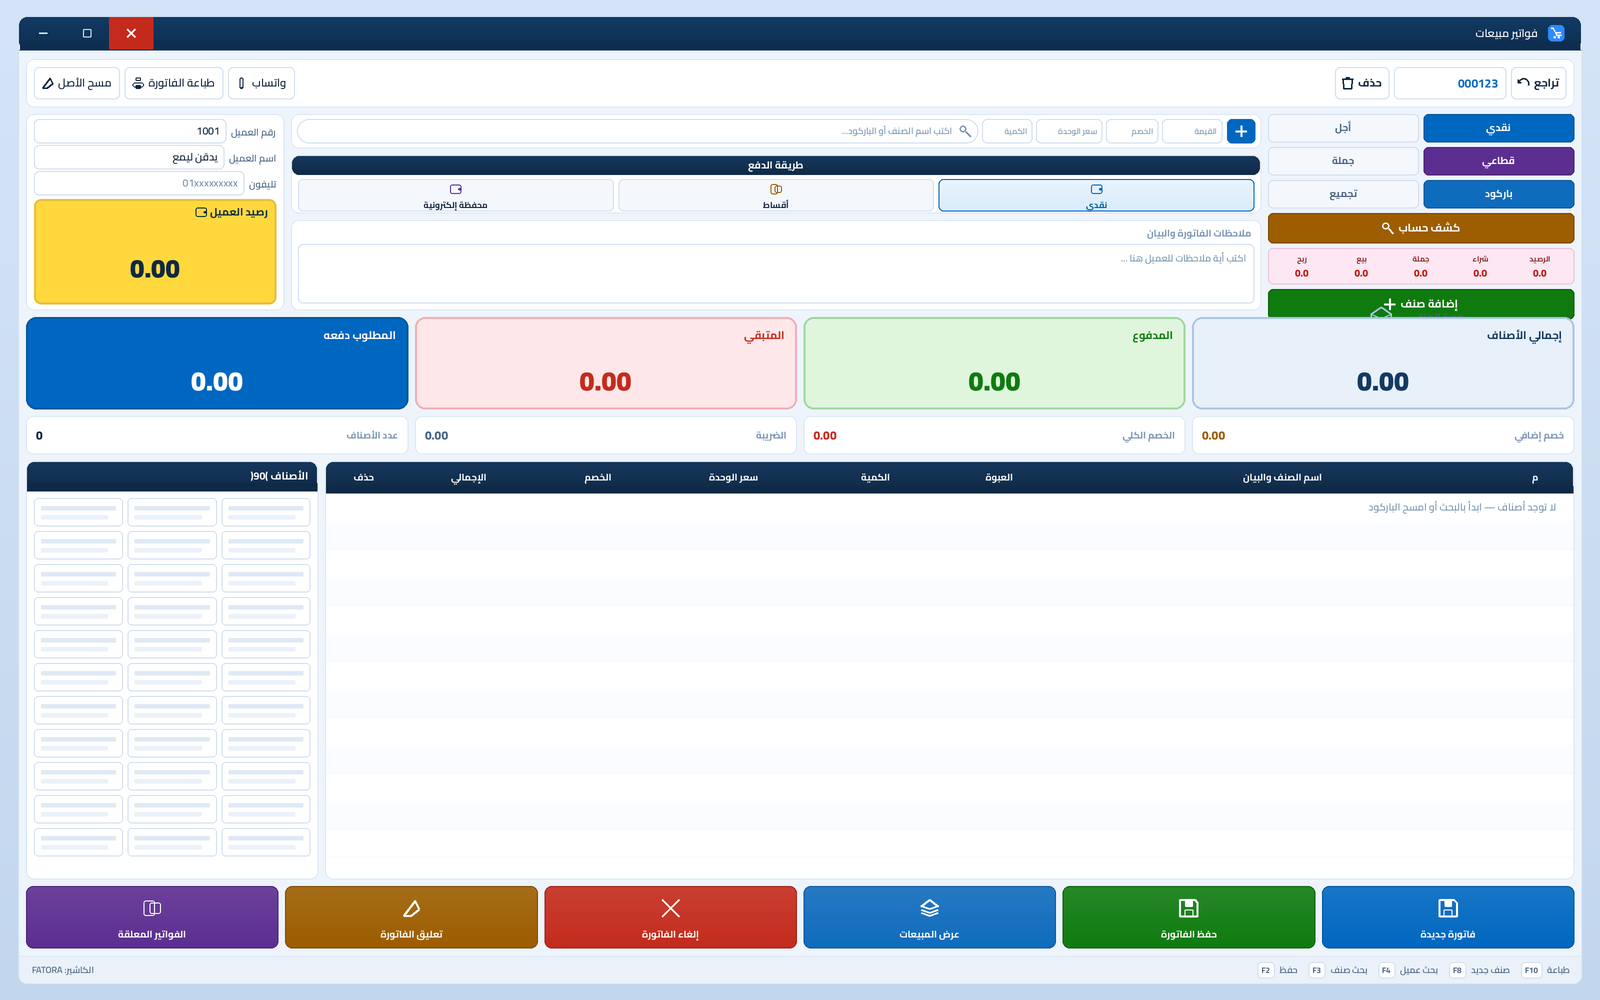
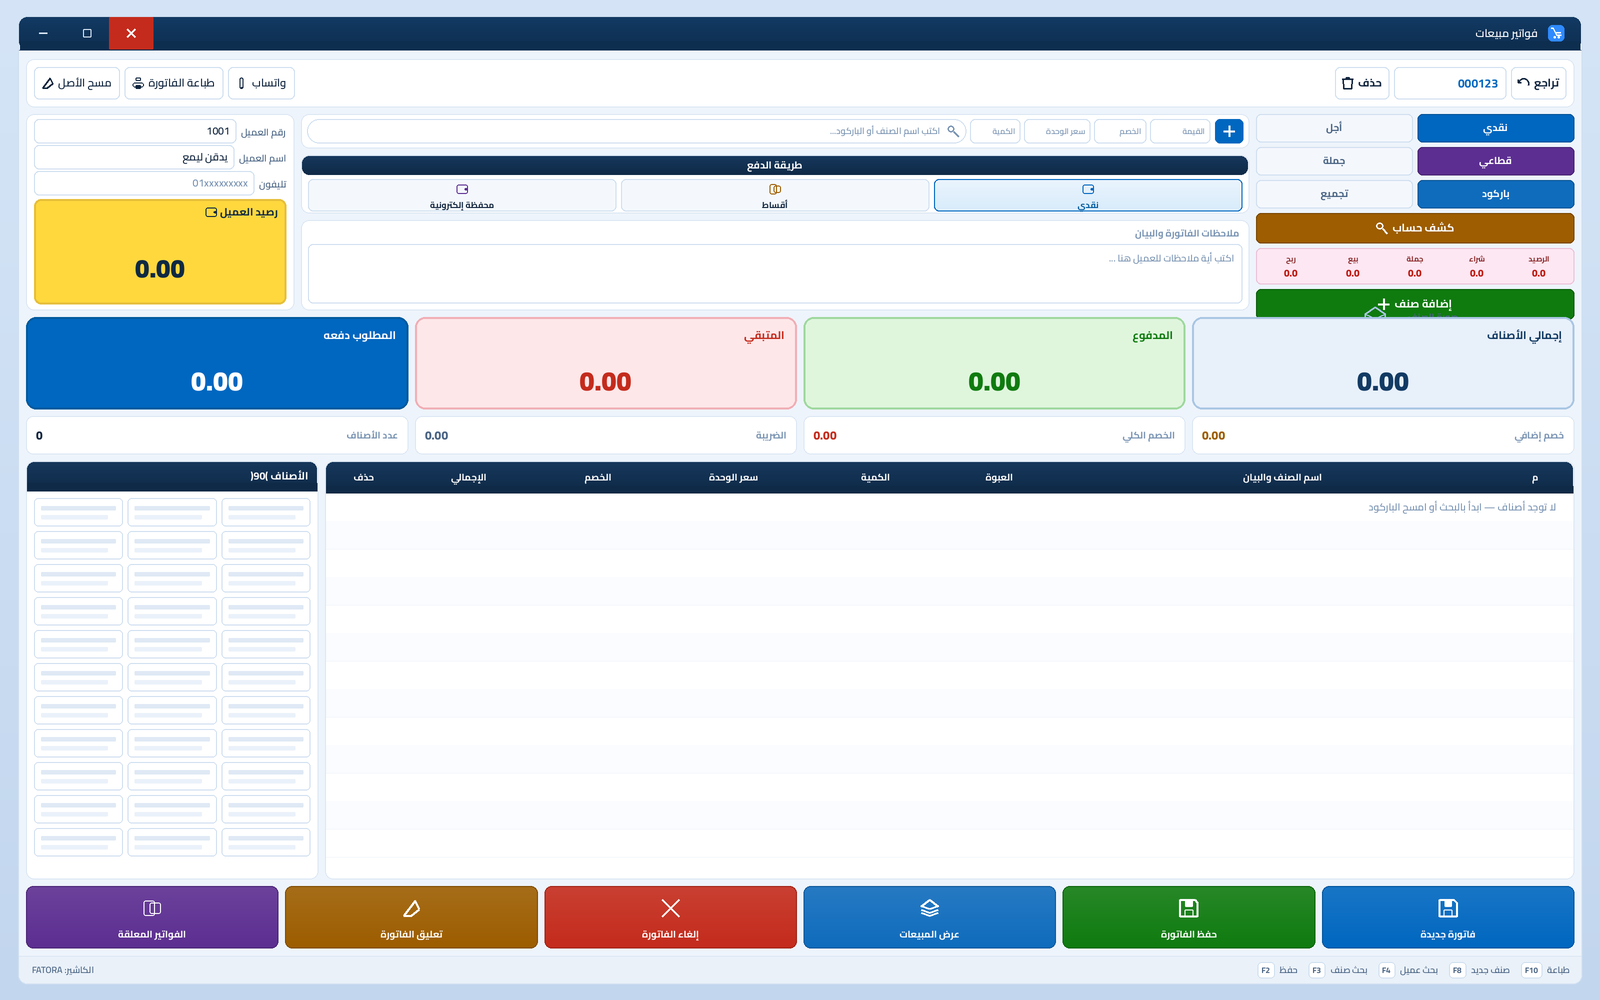
feat(invoice): إلغاء كل العروض المرنة في شاشة المبيعات — عروض ثابتة
كل صف يمتد بالظبط 1364px (1380 نافذة - 16 padding):

- الصف العلوي: العميل 268 + الوسط 762 + اليمين 318 (+16 فواصل) = 1364
- حقل البحث: 353px ثابت (بدل flex-1)
- طرق الدفع: 3 × 250px ثابت
- الملاحظات: 762px
- صورة الصنف: 58px ارتفاع ثابت (كانت تتمدد)
- شريط المال: 4 × 335px (+24) = 1364
- الشريط الثانوي: 4 × 335px = 1364
- الجدول: 1064px + الأصناف 292px (+8) = 1364
- الأزرار الستة: grid-cols-6 (توزيع متساوي تلقائي)

الـflex-1 المتبقي (10 مواضع) كله داخل خانات ثابتة:
حقول داخل صناديقها، textarea الملاحظات، صفوف الجدول، TotRow.

التحقق: tsc نظيف، next build ناجح (42/42)، كل مجموع = 1364px

diff --git a/src/components/invoice/InvoiceEditor.tsx b/src/components/invoice/InvoiceEditor.tsx
@@ -1290,7 +1290,7 @@ export function InvoiceEditor({
               </div>
           </div>
           </div>
-          <div className="flex min-w-0 flex-1 flex-col gap-2">
+          <div className="flex w-[762px] min-w-[762px] shrink-0 flex-col gap-2">
         <div className={`flex h-[50px] shrink-0 items-end gap-1.5 ${L.quickAdd ? "" : "hidden"}`}>
           <div className="flex h-[38px] items-center gap-1.5">
             {/* القائمة المنسدلة الاحترافية للمجموعات */}
@@ -1342,8 +1342,8 @@ export function InvoiceEditor({
             </div>
           </div>
 
-          <div className="flex min-w-0 flex-1 items-end gap-1">
-            <div className="etab relative min-w-[230px] flex-1">
+          <div className="flex w-[762px] shrink-0 items-end gap-1">
+            <div className="etab relative w-[353px] shrink-0">
               <span>الصنف</span>
               <input
                 ref={productRef}
@@ -1444,14 +1444,14 @@ export function InvoiceEditor({
           {/* طرق الدفع (نقدي وأقساط ومحفظة إلكترونية فقط) */}
           <div className={`panel flex w-full shrink-0 flex-col overflow-hidden shadow-sm ${L.payment ? "" : "hidden"}`}>
             <div className="navy-head flex h-[26px] shrink-0 items-center justify-center text-[12.5px]">طريقة الدفع</div>
-            <div className="flex flex-1 flex-row items-stretch gap-1.5 p-1.5 bg-white/50">
+            <div className="flex flex-row items-stretch gap-1.5 p-1.5 bg-white/50">
               {ALLOWED_PAYMENT_METHODS.map((m) => {
                 const active = state.paymentMethod === m.key;
                 return (
                   <button
                     key={m.key}
                     type="button"
-                    className={`pay-btn flex-1 h-[34px] flex-col gap-0 ${active ? "active !border-green-600 !bg-amber-50" : ""}`}
+                    className={`pay-btn h-[34px] w-[250px] shrink-0 flex-col gap-0 ${active ? "active !border-green-600 !bg-amber-50" : ""}`}
                     onClick={() => selectMethod(m.key)}
                   >
                     <span className="text-[11px] font-black leading-none">{m.label}</span>
@@ -1465,7 +1465,7 @@ export function InvoiceEditor({
             </div>
           </div>
           {/* الملاحظات مع نصوص الحسابات بدون (ج.م) والمتبقي (آجل) بدون على العميل */}
-          <div className={`panel flex min-w-0 flex-1 flex-col overflow-hidden shadow-sm ${L.notes ? "" : "hidden"}`}>
+          <div className={`panel flex w-[762px] shrink-0 flex-col overflow-hidden shadow-sm ${L.notes ? "" : "hidden"}`}>
             <div className="panel-head flex h-[32px] shrink-0 items-center justify-center gap-1.5 text-[14px]">
               <PencilLine className="h-3.5 w-3.5 text-blue-600" />
               ملاحظات الفاتورة والبيان
@@ -1617,7 +1617,7 @@ export function InvoiceEditor({
             </button>
 
             {/* صورة الصنف */}
-            <div className={`panel flex min-h-0 flex-1 items-center justify-center gap-1 overflow-hidden bg-white p-1.5 text-center shadow-sm ${L.itemImage ? "" : "hidden"}`}>
+            <div className={`panel flex h-[58px] shrink-0 items-center justify-center gap-1 overflow-hidden bg-white p-1.5 text-center shadow-sm ${L.itemImage ? "" : "hidden"}`}>
               {selProduct?.imageUrl ? (
                 // eslint-disable-next-line @next/next/no-img-element
                 <img src={selProduct.imageUrl} alt={selProduct.name} className="max-h-[52px] max-w-full object-contain" />
@@ -1643,7 +1643,7 @@ export function InvoiceEditor({
             return (
               <div
                 key={key}
-                className="flex min-w-0 flex-1 flex-col justify-between overflow-hidden rounded-xl px-3 py-2 shadow-sm"
+                className="flex w-[335px] shrink-0 flex-col justify-between overflow-hidden rounded-xl px-3 py-2 shadow-sm"
                 style={{ background: c.bg, border: `2px solid ${c.border}` }}
               >
                 <span className="flex items-center gap-1.5 whitespace-nowrap text-[13.5px] font-black" style={{ color: c.ink }}>
@@ -1660,7 +1660,7 @@ export function InvoiceEditor({
 
         {/* ===== الإضافات الثانوية: خصم إضافي + الضريبة + الخصم الكلي + عدد الأصناف ===== */}
         <div className={`flex h-[44px] shrink-0 items-stretch gap-2 ${L.totals ? "" : "hidden"}`}>
-          <label className="panel flex min-w-0 flex-1 items-center gap-2 px-2.5 shadow-sm">
+          <label className="panel flex w-[335px] shrink-0 items-center gap-2 px-2.5 shadow-sm">
             <span className="whitespace-nowrap text-[12px] font-black text-[#9d5d00]">خصم إضافي</span>
             <input
               className="win-input num h-[30px] w-full min-w-0 text-center text-[15px] font-black text-red-600"
@@ -1670,15 +1670,15 @@ export function InvoiceEditor({
               onChange={(e) => patch({ extraDiscount: e.target.value })}
             />
           </label>
-          <div className="panel flex min-w-0 flex-1 items-center justify-between gap-2 px-2.5 shadow-sm">
+          <div className="panel flex w-[335px] shrink-0 items-center justify-between gap-2 px-2.5 shadow-sm">
             <span className="text-[12px] font-bold text-[#4a6484]">الخصم الكلي</span>
             <span className="num text-[15px] font-black text-red-600">{fmt(totals.discount)}</span>
           </div>
-          <div className="panel flex min-w-0 flex-1 items-center justify-between gap-2 px-2.5 shadow-sm">
+          <div className="panel flex w-[335px] shrink-0 items-center justify-between gap-2 px-2.5 shadow-sm">
             <span className="text-[12px] font-bold text-[#4a6484]">الضريبة</span>
             <span className="num text-[15px] font-black text-[#4a6484]">{fmt(totals.tax)}</span>
           </div>
-          <div className="panel flex min-w-0 flex-1 items-center justify-between gap-2 px-2.5 shadow-sm">
+          <div className="panel flex w-[335px] shrink-0 items-center justify-between gap-2 px-2.5 shadow-sm">
             <span className="text-[12px] font-bold text-[#4a6484]">عدد الأصناف</span>
             <span className="num text-[15px] font-black text-[#12263f]">{state.rows.length}</span>
           </div>
@@ -1686,8 +1686,8 @@ export function InvoiceEditor({
 
 
         {/* ===== جدول الفاتورة + الأصناف السريعة ===== */}
-        <div className="flex min-h-0 flex-1 gap-2">
-          <div className={`panel min-w-0 flex-1 overflow-auto p-0 shadow-sm border border-[#dce7f4] bg-[#ffffff] ${L.grid ? "" : "hidden"}`}>
+        <div className="flex min-h-0 w-full gap-2">
+          <div className={`panel w-[1064px] min-w-[1064px] shrink-0 overflow-auto p-0 shadow-sm border border-[#dce7f4] bg-[#ffffff] ${L.grid ? "" : "hidden"}`}>
             <table className="dgrid-invoice text-center">
               <thead>
                 <tr>

diff --git a/designs/render_win11.py b/designs/render_win11.py
@@ -290,7 +290,7 @@ def build(out="sales-win11-blue.png"):
     r1_y0 = tb_y1+GAP; r1_y1 = r1_y0+R1
 
     # (1) العميل شمال
-    CUST_W = 258
+    CUST_W = 268
     cx0, cx1 = x_left, x_left+CUST_W
     rr(d, [cx0, r1_y0, cx1, r1_y1], 8, fill="#ffffff", outline=F["stroke"], width=1)
     fy = r1_y0+5
@@ -311,7 +311,7 @@ def build(out="sales-win11-blue.png"):
 
     # (2) الوسط: إدخال سريع + طرق دفع + ملاحظات
     MID_X0 = cx1+GAP
-    RIGHT_W = 306
+    RIGHT_W = 318
     MID_X1 = x_right-RIGHT_W-GAP
     fy = r1_y0
     # إدخال سريع
